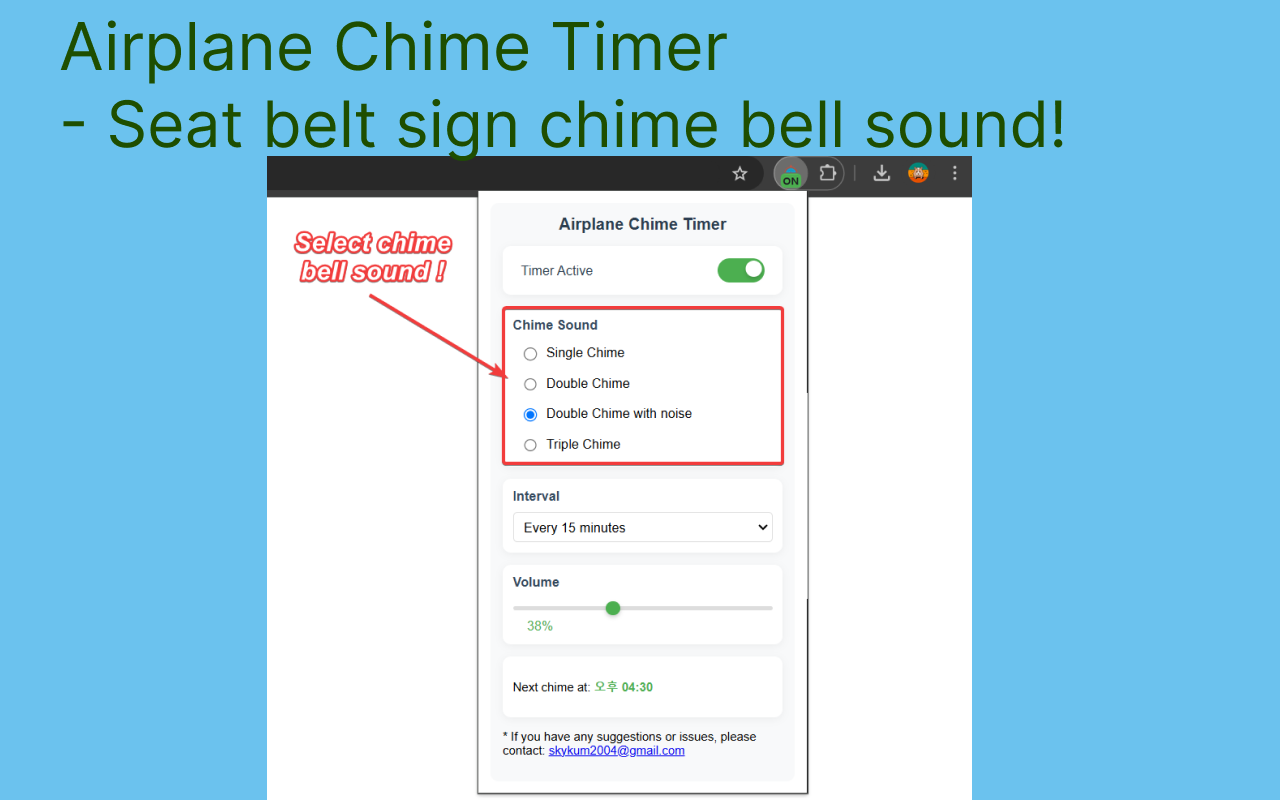
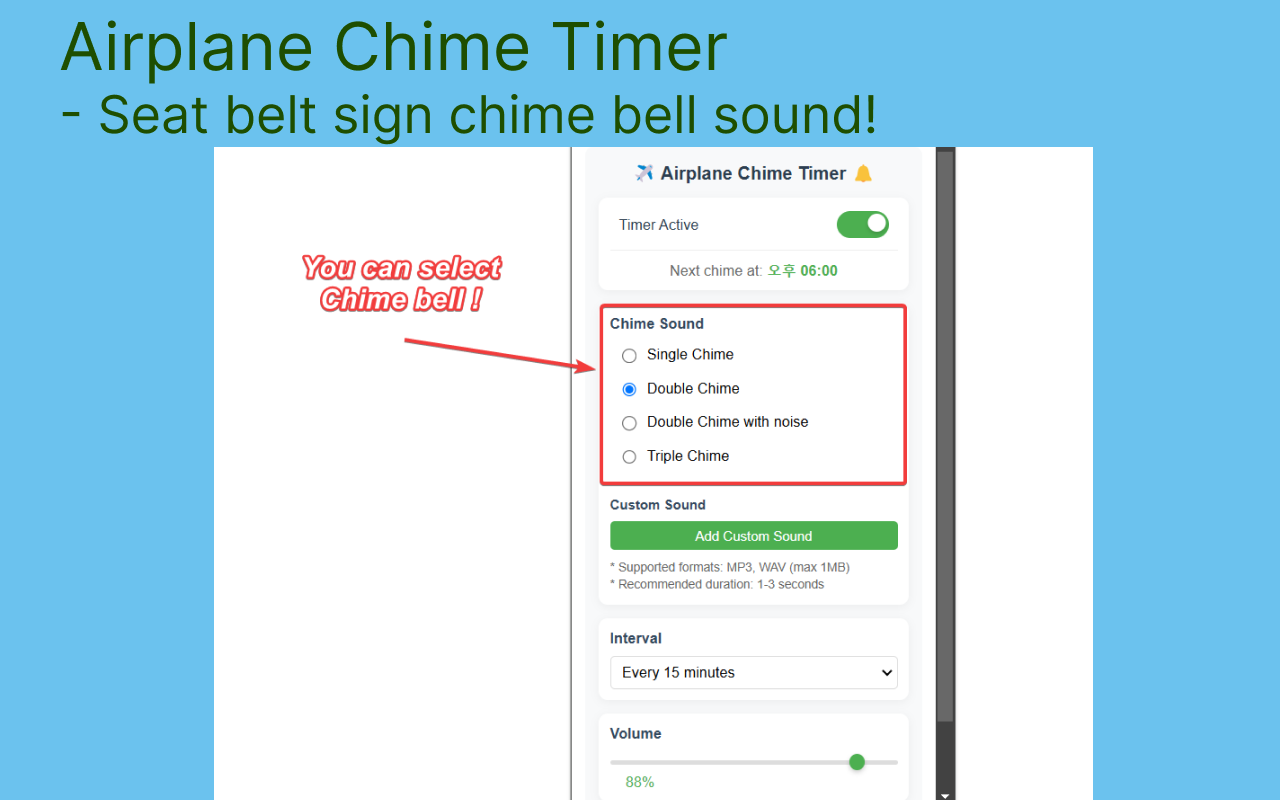
Update to version 1.1.0 (custom sound feat)

Changed region(s): [[0.0312, 0.125, 0.875, 1.0], [0.375, 0.9062, 0.6875, 1.0], [0.625, 0.8125, 0.6562, 0.875]]

diff --git a/welcome.html b/welcome.html
@@ -95,9 +95,10 @@
             <li>Plays airplane chime sounds at regular intervals (15min, 30min, or 1hour) - example: 15:00, 15:30, 16:00</li>
             <li>No popup notifications - audio only</li>
             <li>Chimes exactly at :00 seconds of each interval</li>
+            <li>Upload and use your own custom chime sounds (MP3, WAV up to 1MB)</li>
         </ul>
         <div class="coming-soon">
-            Coming Soon: Custom sound upload feature
+            Coming Soon: More interval options and schedule settings
         </div>
     </div>
 </body>
